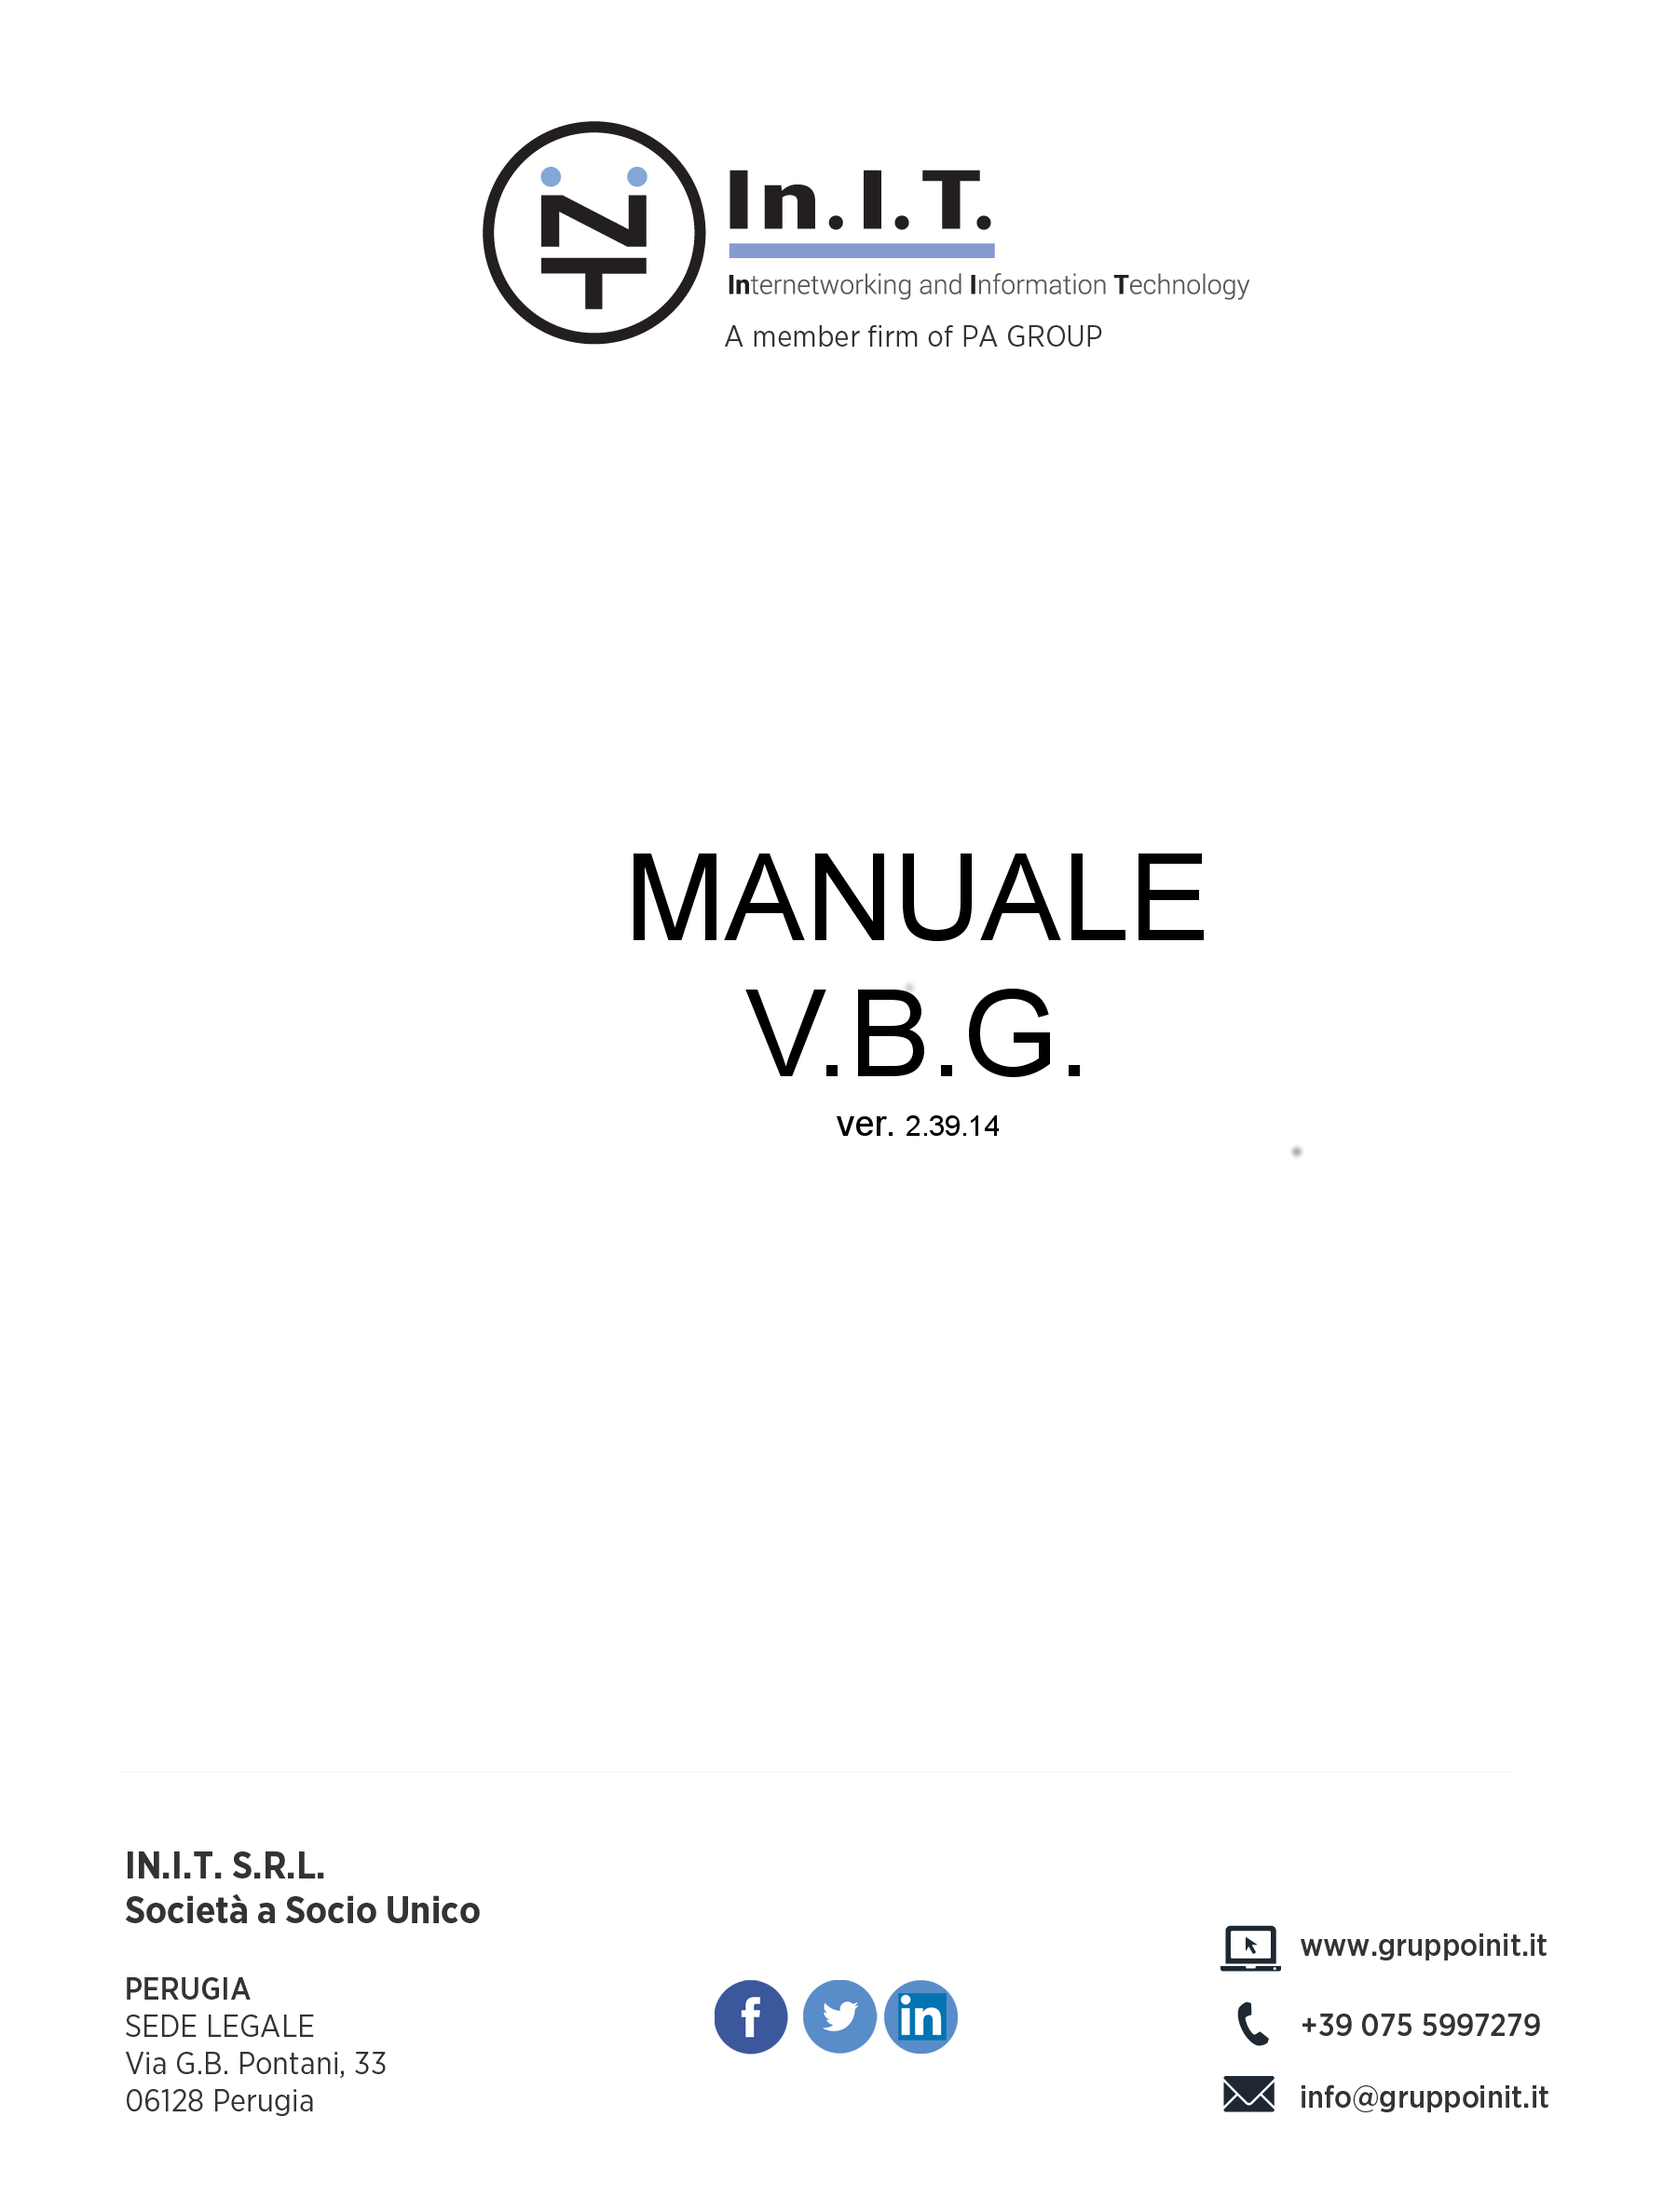
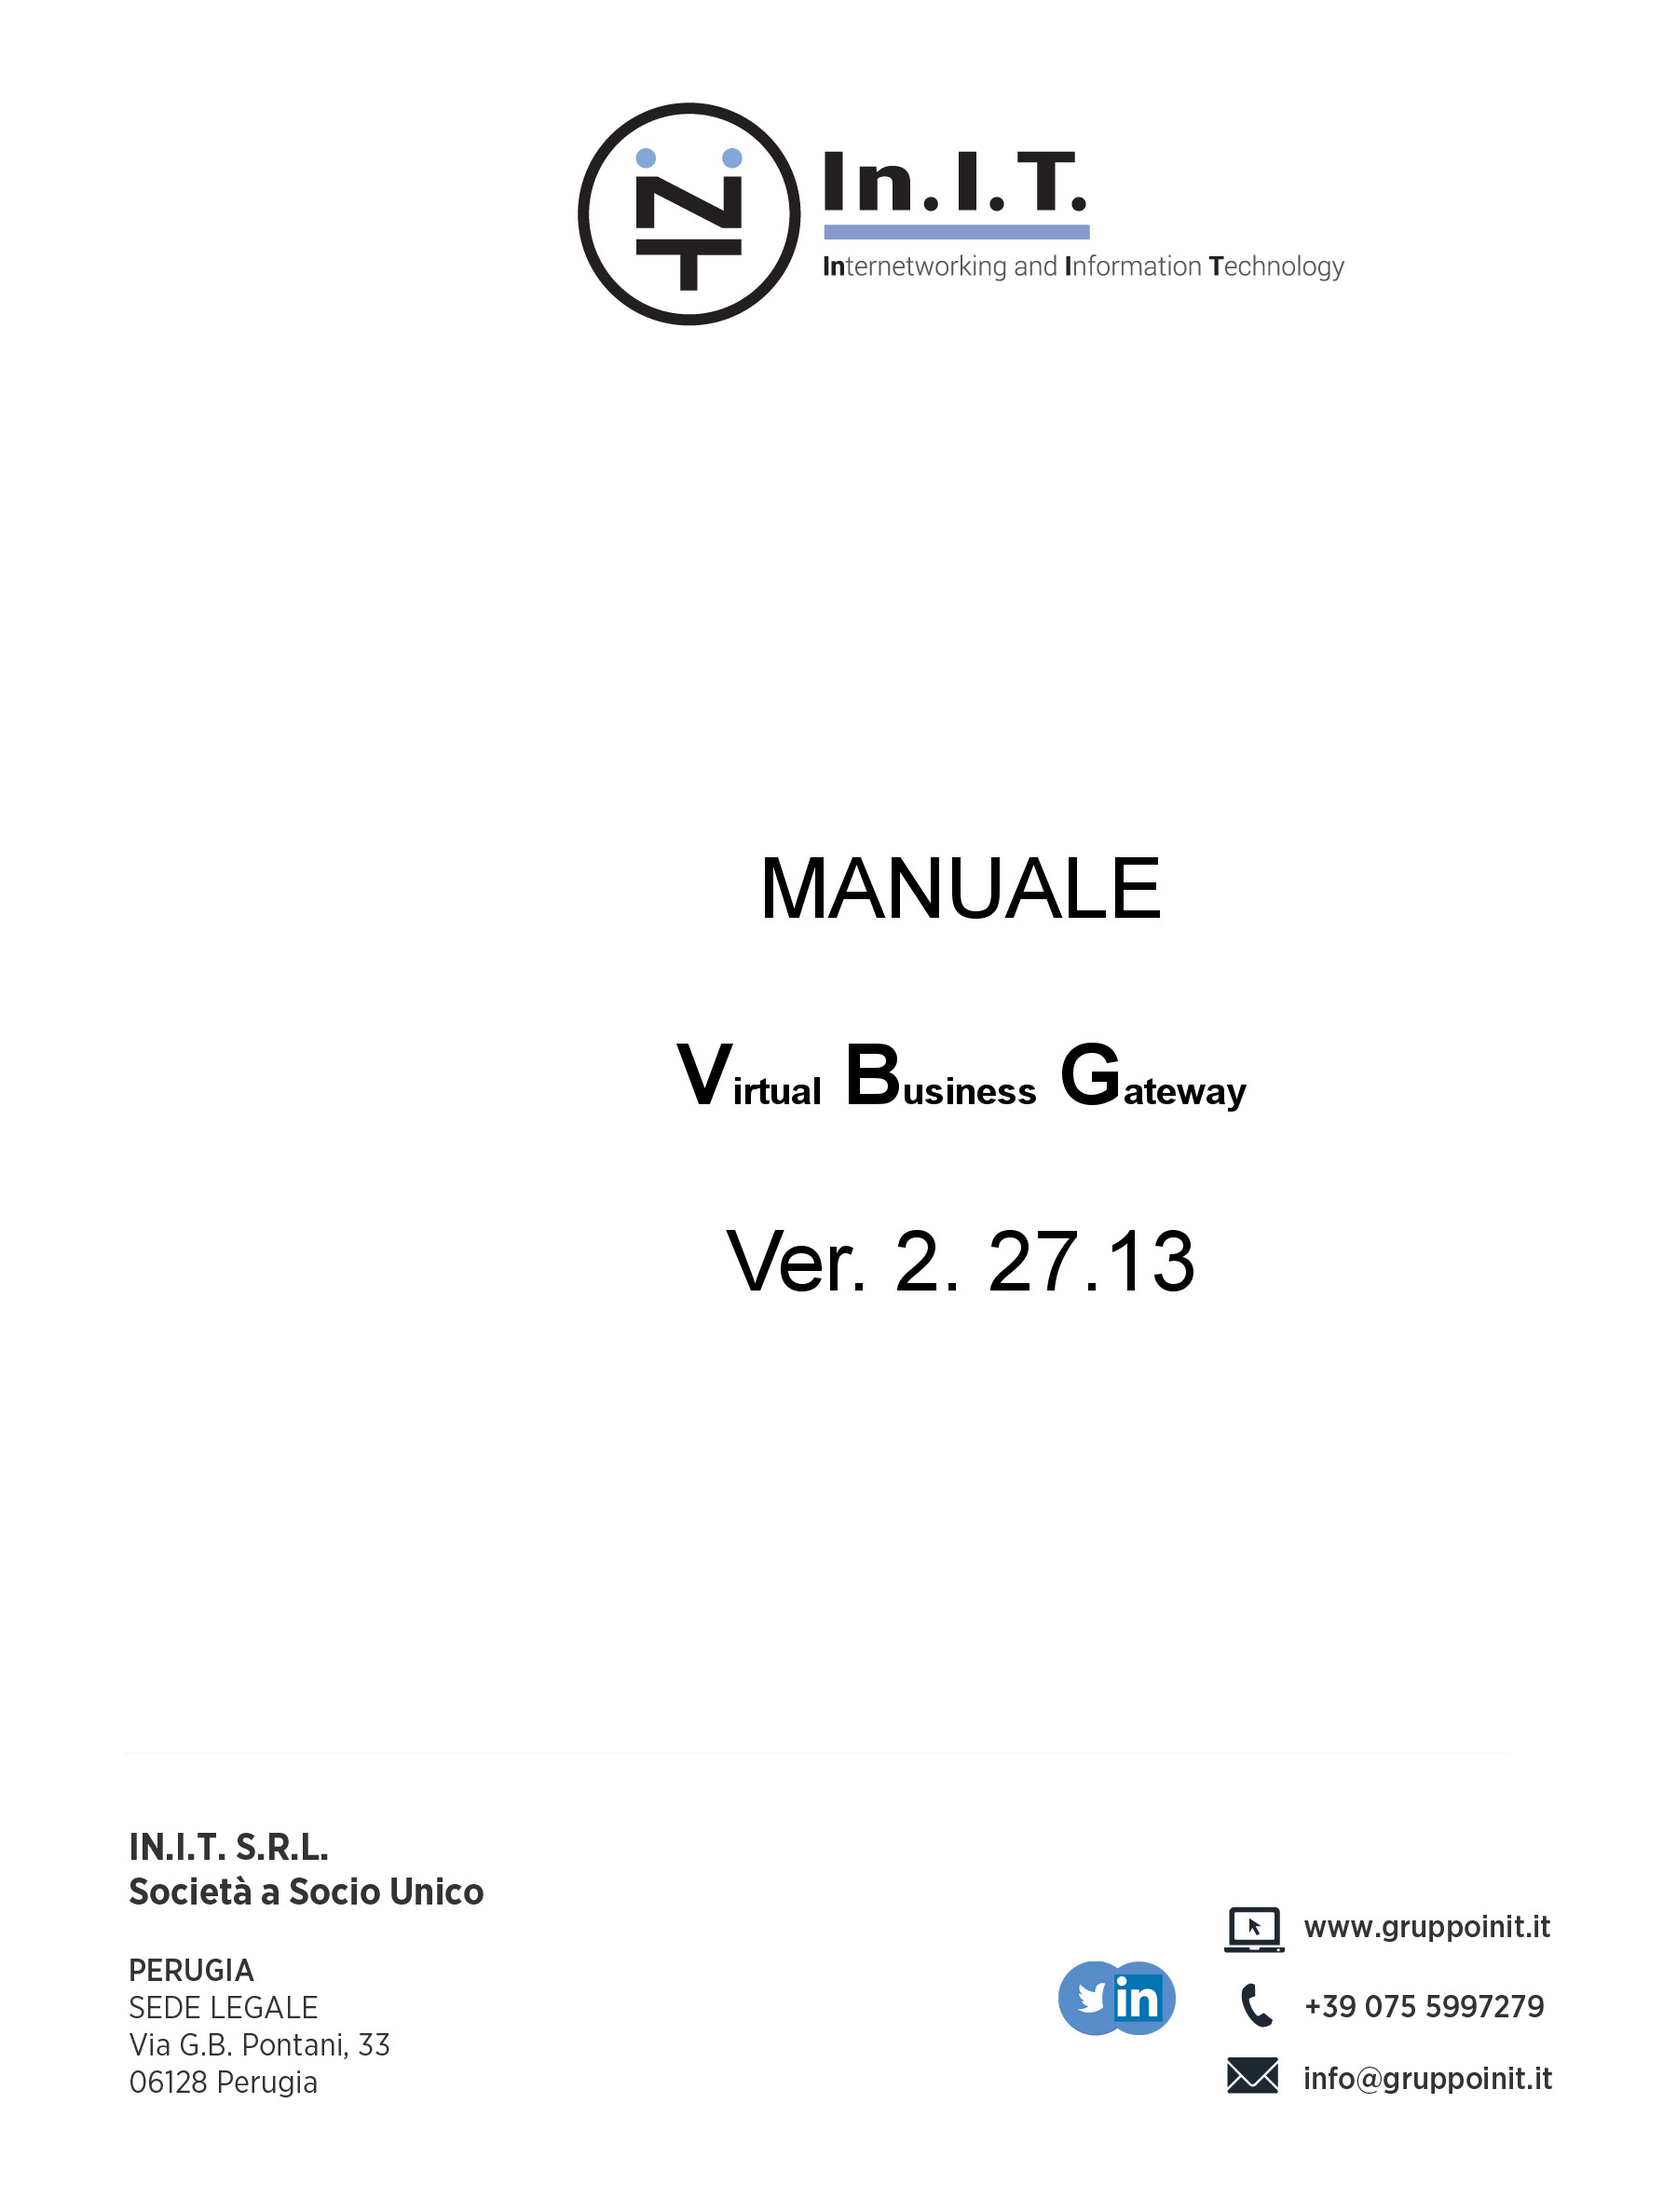
Creates old_cover.jpg
Auto commit by GitBook Editor

diff --git a/README.md b/README.md
@@ -1,4 +1,4 @@
-Manuale di {{ book.prodotto }} (versione del manuale: {{ book.versions }})
+![](/assets/copertina-manuale_v2.jpg)Manuale di {{ book.prodotto }} (versione del manuale: {{ book.versions }})
 
 
 L’ app licativo {{ book.prodotto }} è strutturato in modo da fornire agli operatori di back office il completo controllo e abilitarli a tutte le funzionalità: creazione, pubblicazione, modifica ed eliminazione dei contenuti.
